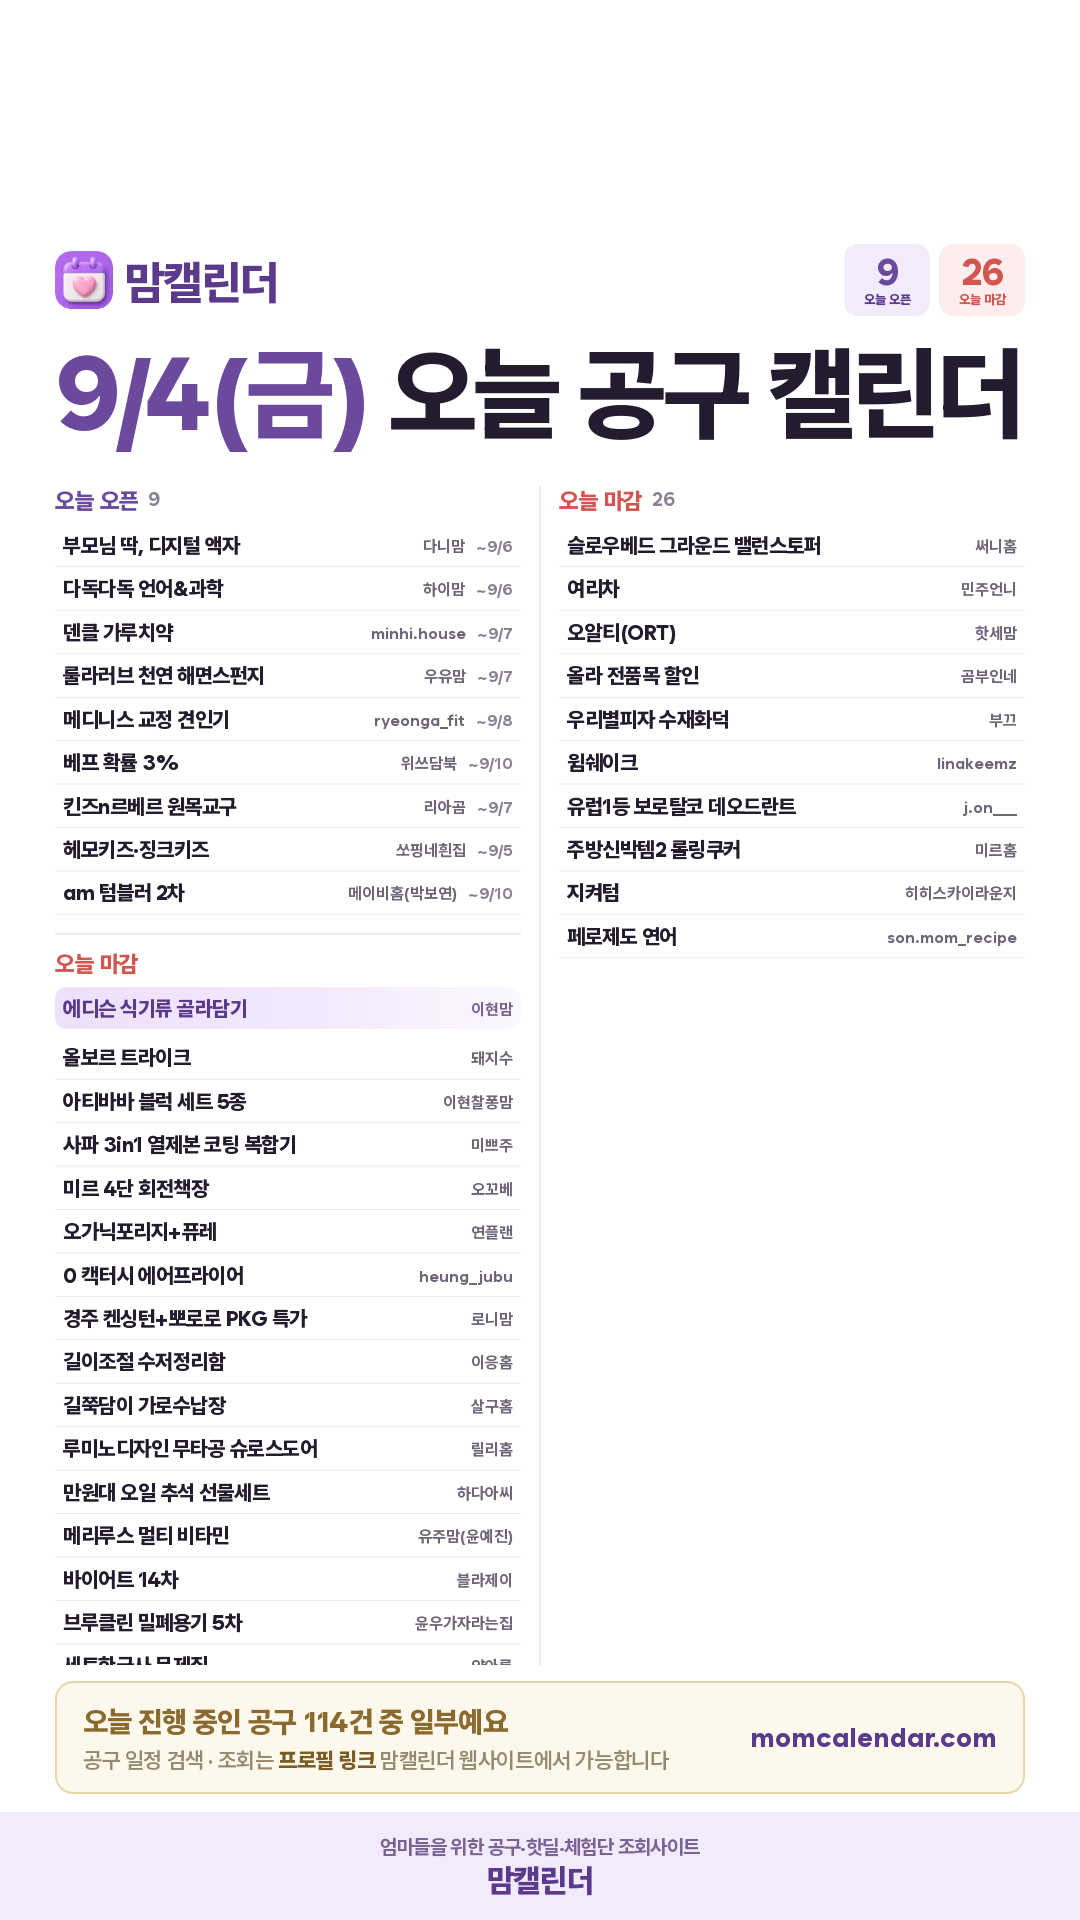
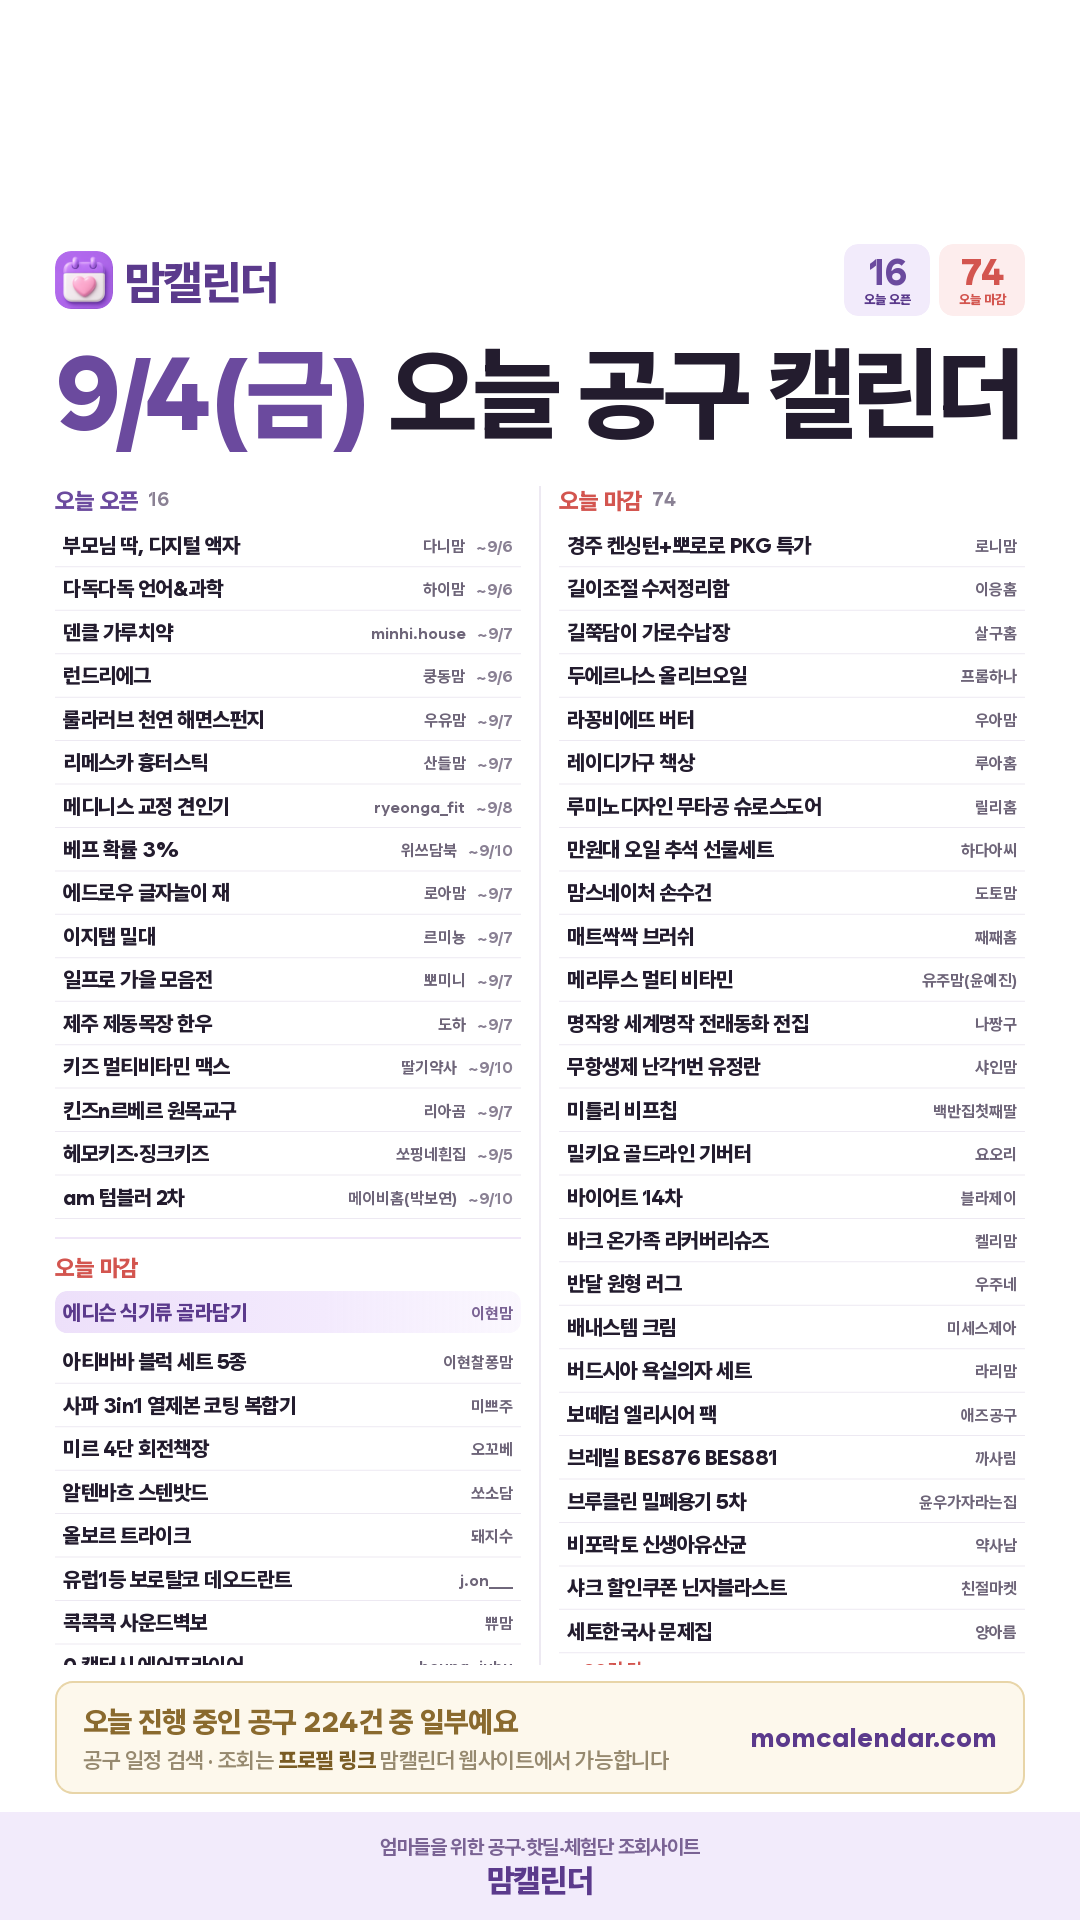
아침 인스타 카드 (2026-08-31)

diff --git a/daily/2026-09-04.html b/daily/2026-09-04.html
@@ -19,7 +19,7 @@ textarea{width:100%;height:260px;border:1px solid #E3DCEF;border-radius:10px;pad
 .todo p{font-size:12.5px;color:#6B6379;line-height:1.75;margin-top:6px}
 .todo a{color:#5B2E8C;font-weight:700}
 </style></head><body>
-<div class="hd"><div class="wrap"><h1>9월 4일(금) 인스타 카드</h1><p>오픈 9건 · 마감 26건</p></div></div>
+<div class="hd"><div class="wrap"><h1>9월 4일(금) 인스타 카드</h1><p>오픈 16건 · 마감 74건</p></div></div>
 <div class="wrap">
   
   <div class="card"><img src="./2026-09-04.png" alt="오늘 공구 카드"></div>
@@ -30,7 +30,7 @@ textarea{width:100%;height:260px;border:1px solid #E3DCEF;border-radius:10px;pad
 맘캘린더에서 공유드리는
 9월 4일(금) 오늘 공구 캘린더
 
-오픈 9건 · 마감 26건
+오픈 16건 · 마감 69건
 
 ━━━━━━━━━━━━━━
 
@@ -38,40 +38,83 @@ textarea{width:100%;height:260px;border:1px solid #E3DCEF;border-radius:10px;pad
 · 부모님 추석선물로 딱, 디지털 액자 — 다니맘 (~9/6)
 · 다독다독 언어&amp;과학 — 하이맘 (~9/6)
 · 덴클 가루치약 — minhi.house (~9/7)
+· 런드리에그 — 쿵동맘 (~9/6)
 · 룰라러브 천연 해면스펀지 — 우유맘 (~9/7)
+· 리메스카 흉터스틱 — 산들맘 (~9/7)
 · 메디니스 거북목 교정 견인기 — ryeonga_fit (~9/8)
 · 베프 확률 3% — 위쓰담북 (~9/10)
+· 에드로우 글자놀이 재 — 로아맘 (~9/7)
+· 이지탭 밀대 — 르미뇽 (~9/7)
+· 일프로 가을 모음전 — 뽀미니 (~9/7)
+· 제주 제동목장 한우 — 도하 (~9/7)
+· 키즈 멀티비타민 맥스 — 딸기약사 (~9/10)
 · 킨즈n르베르 원목교구 (신제품) — 리아곰 (~9/7)
 · 헤모키즈·징크키즈 — 쏘핑네흰집 (~9/5)
 · am 텀블러 2차 — 메이비홈(박보연) (~9/10)
 
 ⏰ 오늘 마감하는 공구
 · 에디슨 식기류 골라담기 — 이현맘 @ihyeon_mom_251125
-· 올보르 트라이크 — 돼지수
 · 아티바바 블럭 세트 5종 — 이현찰퐁맘
 · 사파 3in1 열제본 코팅 복합기 — 미쁘주
 · 미르 4단 회전책장 — 오꼬베
-· 오가닉포리지+퓨레 — 연플랜
+· 알텐바흐 스텐밧드 — 쏘소담
+· 올보르 트라이크 — 돼지수
+· 유럽1등 보로탈코 데오드란트 — j.on___
+· 콕콕콕 사운드벽보 — 쀼맘
 · 0 캑터시 에어프라이어 — heung_jubu
 · 경주 켄싱턴+뽀로로 PKG 특가 — 로니맘
 · 길이조절 수저정리함 — 이응홈
 · 길쭉담이 가로수납장 — 살구홈
+· 두에르나스 올리브오일 — 프롬하나
+· 라꽁비에뜨 버터 — 우아맘
+· 레이디가구 책상 — 루아홈
 · 루미노디자인 문틀 무타공 슈로스도어 2차 — 릴리홈
 · 만원대 오일 추석 선물세트 — 하다아씨
+· 맘스네이처 손수건 — 도토맘
+· 매트싹싹 브러쉬 — 째째홈
 · 메리루스 멀티 비타민 — 유주맘(윤예진)
+· 명작왕 세계명작 전래동화 전집 — 나짱구
+· 무항생제 난각1번 유정란 — 샤인맘
+· 미틀리 비프칩 — 백반집첫째딸
+· 밀키요 골드라인 기버터 — 요오리
 · 바이어트 14차 — 블라제이
+· 바크 온가족 리커버리슈즈 — 켈리맘
+· 반달 원형 러그 — 우주네
+· 배내스템 크림 — 미세스제아
+· 버드시아 유아세면대+욕실의자 세트 — 라리맘
+· 보떼덤 엘리시어 팩 — 애즈공구
+· 브레빌 커피머신 BES876 BES881 — 까사림
 · 브루클린 밀폐용기 5차 — 윤우가자라는집
+· 비포락토 신생아유산균 — 약사남
+· 샤크 무선청소기 에보파워 시스템 NEO+ LC351KR 공동구매 할인쿠폰 + 닌자블라스트 — 친절마켓
 · 세토한국사 문제집 — 양아름
+· 쉐프윈 스마트쿠커 2종 6차 — 뚝딱쿡
+· 스위스 유스트 — 살림가게
+· 스토피아 프리미엄 세탁바스켓 — 지니하우스
 · 슬로우베드 그라운드 밸런스토퍼 — 써니홈
+· 시쿠 자동차 세트 — 서노
+· 아크릴 냉장고 메모보드 — 레미맘
+· 에디슨 — 하유니네
 · 여리차 — 민주언니
+· 오가닉스 포리지 퓨레 — 연플랜
+· 오사닛 이앓이 캔디 — 둔둔맘
 · 오알티(ORT) — 핫세맘
+· 오키나와 여행 패키지 — 다온맘
+· 온주걱 — 보석맘
 · 올라 전품목 할인 — 곰부인네
+· 우리 아이 액상 철분 — eunha__yak
 · 우리별피자 수재화덕 — 부끄
 · 윔쉐이크 — linakeemz
-· 유럽1등 보로탈코 데오드란트 — j.on___
+· 윙플라 핸드메이드 주물팬 — e_hyejung_1979
+· 이유식 대전 — 다이어리랑
+· 자연누리 8차 — sictac_jw
+· 전동쓱퀴지 — 조이너프
 · 주방신박템2 롤링쿠커 — 미르홈
 · 지켜텀 — 히히스카이라운지
-· 페로제도 연어 — son.mom_recipe
+· 카인드풀 디톡스 런드리 세트 — jjuunn_mom
+· 코즈 가을신상 — 빵찌쌤
+· 키들스프링카 — 축복맘
+…나머지 8건은 맘캘린더 사이트에서 보실 수 있어요
 
 ━━━━━━━━━━━━━━
 
@@ -84,12 +127,12 @@ textarea{width:100%;height:260px;border:1px solid #E3DCEF;border-radius:10px;pad
 ⚠ 공구 일정은 판매자 사정에 따라 변경되거나 조기 마감될 수 있어요. 구매 전에 해당 셀러 계정에서 한 번 더 확인해 주세요.
 
 #맘캘린더 #공구일정 #육아공구 #육아용품 #책육아 #공동구매 #육아정보 #공구정보 #육아템 #먹거리공구 #살림템 #교구</textarea>
-    <div class="meta">1248자 / 2200자 · 오픈 9/9 · 마감 26/26</div>
+    <div class="meta">2199자 / 2200자 · 오픈 16/16 · 마감 61/69</div>
     <button class="btn btn2" onclick="cp('cap','캡션')">캡션 복사</button>
   </div>
   <div class="card">
     <div class="meta" style="margin:0 0 8px;font-weight:800;color:#5B2E8C">네이버 블로그용 (blog.naver.com/momcal) — 수정해서 쓰셔도 돼요</div>
-    <textarea id="btitle" style="height:54px">9월 4일(금) 인스타 공구 일정 모음 | 헤모키즈 징크키즈·am 텀블러·다독다독·메디니스 공구 오픈</textarea>
+    <textarea id="btitle" style="height:54px">9월 4일(금) 인스타 공구 일정 모음 | 헤모키즈 징크키즈·am 텀블러·다독다독·런드리에그 공구 오픈</textarea>
     <button class="btn btn2" onclick="cp('btitle','블로그 제목')">블로그 제목 복사</button>
     <textarea id="bbody" style="margin-top:9px">맘캘린더 채널 한눈에
 · 전체 공구 일정 실시간 검색 → https://momcalendar.com
@@ -102,61 +145,118 @@ textarea{width:100%;height:260px;border:1px solid #E3DCEF;border-radius:10px;pad
 · 카톡 수다방 → https://open.kakao.com/o/gr2kJhCh
 ─────────────
 
-9월 4일(금), 오늘 새로 오픈하는 인스타 공구일정 9건을 카테고리별로 정리했어요.
-오늘 마감되는 공구도 26건 있으니 놓치지 마세요.
+9월 4일(금), 오늘 새로 오픈하는 인스타 공구일정 16건을 카테고리별로 정리했어요.
+오늘 마감되는 공구도 74건 있으니 놓치지 마세요.
 
-■ 오늘 오픈하는 공구 9건
+■ 오늘 오픈하는 공구 16건
 
 [육아]
 · 룰라러브 천연 해면스펀지 — 우유맘 (~9/7 마감)
 · 베프 확률 3% — 위쓰담북 (~9/10 마감)
+· 에드로우 글자놀이 재 — 로아맘 (~9/7 마감)
+· 일프로 가을 모음전 — 뽀미니 (~9/7 마감)
 · 킨즈n르베르 원목교구 (신제품) — 리아곰 (~9/7 마감)
 
 [리빙]
 · am 텀블러 2차 — 메이비홈(박보연) (~9/10 마감)
 · 다독다독 언어&amp;과학 — 하이맘 (~9/6 마감)
+· 런드리에그 — 쿵동맘 (~9/6 마감)
 · 메디니스 거북목 교정 견인기 — ryeonga_fit (~9/8 마감)
+· 이지탭 밀대 — 르미뇽 (~9/7 마감)
+
+[식품]
+· 제주 제동목장 한우 — 도하 (~9/7 마감)
 
 [건강]
+· 키즈 멀티비타민 맥스 — 딸기약사 (~9/10 마감)
 · 헤모키즈·징크키즈 — 쏘핑네흰집 (~9/5 마감)
 
 [뷰티]
 · 덴클 가루치약 — minhi.house (~9/7 마감)
+· 리메스카 흉터스틱 — 산들맘 (~9/7 마감)
 
 [가전]
 · 부모님 추석선물로 딱, 디지털 액자 — 다니맘 (~9/6 마감)
 
-■ 오늘 마감하는 공구 26건
+■ 오늘 마감하는 공구 74건
 · 0 캑터시 에어프라이어 — heung_jubu
+· YDY 베르베린 — 제니약사
+· YDY 포스트바이오틱스GX — 명훈약사
+· YDY 폴라초임계 오메가3 밸류팩 — 제니약사
 · 경주 켄싱턴+뽀로로 PKG 특가 — 로니맘
 · 길이조절 수저정리함 — 이응홈
 · 길쭉담이 가로수납장 — 살구홈
+· 두에르나스 올리브오일 — 프롬하나
+· 라꽁비에뜨 버터 — 우아맘
+· 레이디가구 책상 — 루아홈
 · 루미노디자인 문틀 무타공 슈로스도어 2차 — 릴리홈
 · 만원대 오일 추석 선물세트 — 하다아씨
+· 맘스네이처 손수건 — 도토맘
+· 매트싹싹 브러쉬 — 째째홈
 · 메리루스 멀티 비타민 — 유주맘(윤예진)
+· 명작왕 세계명작 전래동화 전집 — 나짱구
+· 무항생제 난각1번 유정란 — 샤인맘
 · 미르 4단 회전책장 — 오꼬베
+· 미틀리 비프칩 — 백반집첫째딸
+· 밀키요 골드라인 기버터 — 요오리
 · 바이어트 14차 — 블라제이
+· 바크 온가족 리커버리슈즈 — 켈리맘
+· 반달 원형 러그 — 우주네
+· 배내스템 크림 — 미세스제아
+· 버드시아 유아세면대+욕실의자 세트 — 라리맘
+· 보떼덤 엘리시어 팩 — 애즈공구
+· 브레빌 커피머신 BES876 BES881 — 까사림
 · 브루클린 밀폐용기 5차 — 윤우가자라는집
+· 비포락토 신생아유산균 — 약사남
 · 사파 3in1 열제본 코팅 복합기 — 미쁘주
+· 샤크 무선청소기 에보파워 시스템 NEO+ LC351KR 공동구매 할인쿠폰 + 닌자블라스트 — 친절마켓
 · 세토한국사 문제집 — 양아름
+· 쉐프윈 스마트쿠커 2종 6차 — 뚝딱쿡
+· 스위스 유스트 — 살림가게
+· 스토피아 프리미엄 세탁바스켓 — 지니하우스
 · 슬로우베드 그라운드 밸런스토퍼 — 써니홈
+· 시쿠 자동차 세트 — 서노
+· 아크릴 냉장고 메모보드 — 레미맘
 · 아티바바 블럭 세트 5종 — 이현찰퐁맘
+· 알텐바흐 스텐밧드 — 쏘소담
+· 에디슨 — 하유니네
 · 에디슨 식기류 골라담기 — 이현맘
 · 여리차 — 민주언니
-· 오가닉포리지+퓨레 — 연플랜
+· 오가닉스 포리지 퓨레 — 연플랜
+· 오사닛 이앓이 캔디 — 둔둔맘
 · 오알티(ORT) — 핫세맘
+· 오키나와 여행 패키지 — 다온맘
+· 온도 김그릇 가리비접시 에그트레이 — 우아맘
+· 온주걱 — 보석맘
 · 올라 전품목 할인 — 곰부인네
 · 올보르 트라이크 — 돼지수
+· 우리 아이 액상 철분 — eunha__yak
 · 우리별피자 수재화덕 — 부끄
 · 윔쉐이크 — linakeemz
+· 윙플라 핸드메이드 주물팬 — e_hyejung_1979
 · 유럽1등 보로탈코 데오드란트 — j.on___
+· 이유식 대전 — 다이어리랑
+· 자연누리 8차 — sictac_jw
+· 전동쓱퀴지 — 조이너프
 · 주방신박템2 롤링쿠커 — 미르홈
 · 지켜텀 — 히히스카이라운지
+· 카인드풀 디톡스 런드리 세트 — jjuunn_mom
+· 코즈 가을신상 — 빵찌쌤
+· 콕콕콕 사운드벽보 — 쀼맘
+· 키들스프링카 — 축복맘
+· 키머즈 트라이크 캐리어 — 미니맘
+· 탁가온 실리콘식판 — 또후니맘
+· 토이토 슬랑이 모음전 — 프롬졸리
+· 트루동 마켓 — xhin.world
 · 페로제도 연어 — son.mom_recipe
+· 폴프랜즈 가을양말 — 레미맘
+· 하이파이브 미니카 — 리아곰
+· 한끼 전복죽 8차 — 태규맘
+· 홀츠우드 구름사다리 슈로스바 — 사당이네
 
 ※ 공구 일정은 판매자 사정에 따라 변경되거나 조기 마감될 수 있어요. 구매 전에 해당 셀러 계정에서 한 번 더 확인해 주세요.
 
-#공구일정 #인스타공구 #인스타공구일정 #공동구매 #오늘의공구 #육아공구 #육아템 #공구모음 #헤모키즈공구 #am공구 #다독다독공구 #메디니스공구 #덴클공구 #룰라러브공구 #베프공구 #킨즈n르베르공구</textarea>
+#공구일정 #인스타공구 #인스타공구일정 #공동구매 #오늘의공구 #육아공구 #육아템 #공구모음 #헤모키즈공구 #am공구 #다독다독공구 #런드리에그공구 #메디니스공구 #이지탭공구 #덴클공구 #리메스카공구</textarea>
     <button class="btn" onclick="cp('bbody','블로그 본문 전체')">블로그 본문 전체 복사 (태그 포함)</button>
     <div class="meta">순서: 사진 저장 → 블로그 앱 글쓰기 → 제목 붙여넣기 → 본문 붙여넣기 → 본문 맨 위에 사진 추가 → 발행. 끝의 #태그들은 자동으로 태그가 돼요</div>
   </div>

diff --git a/daily/index.html b/daily/index.html
@@ -1,1 +1,1 @@
-<!DOCTYPE html><meta charset="UTF-8"><meta http-equiv="refresh" content="0;url=./2026-09-03.html">
+<!DOCTYPE html><meta charset="UTF-8"><meta http-equiv="refresh" content="0;url=./2026-09-04.html">
